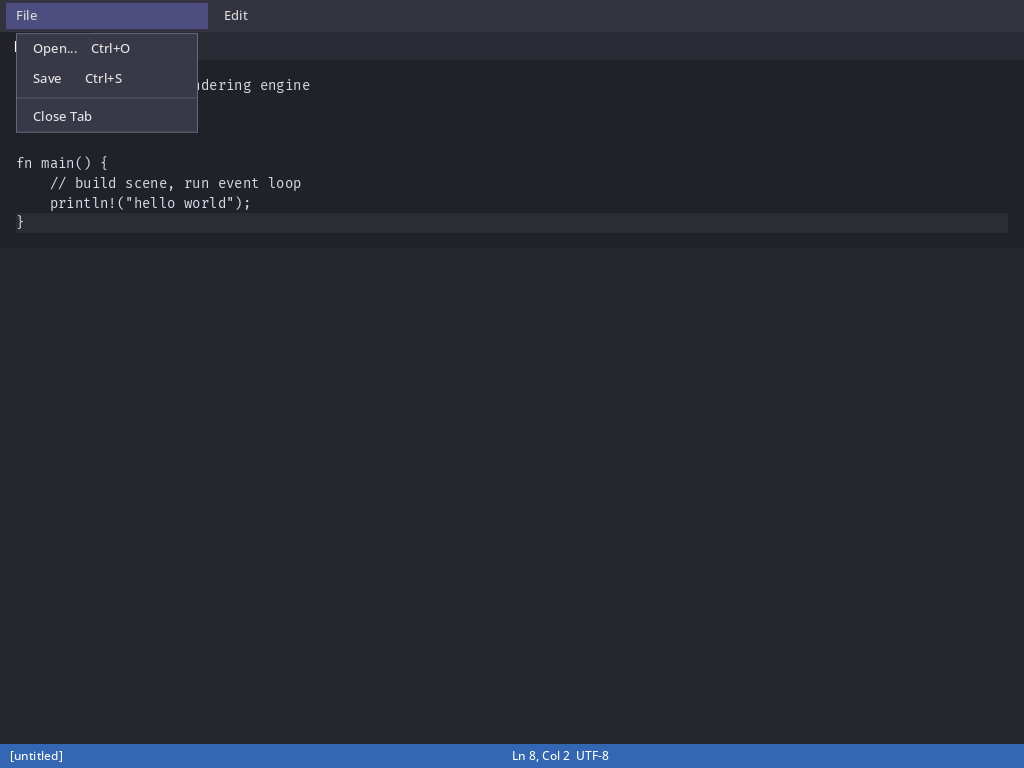
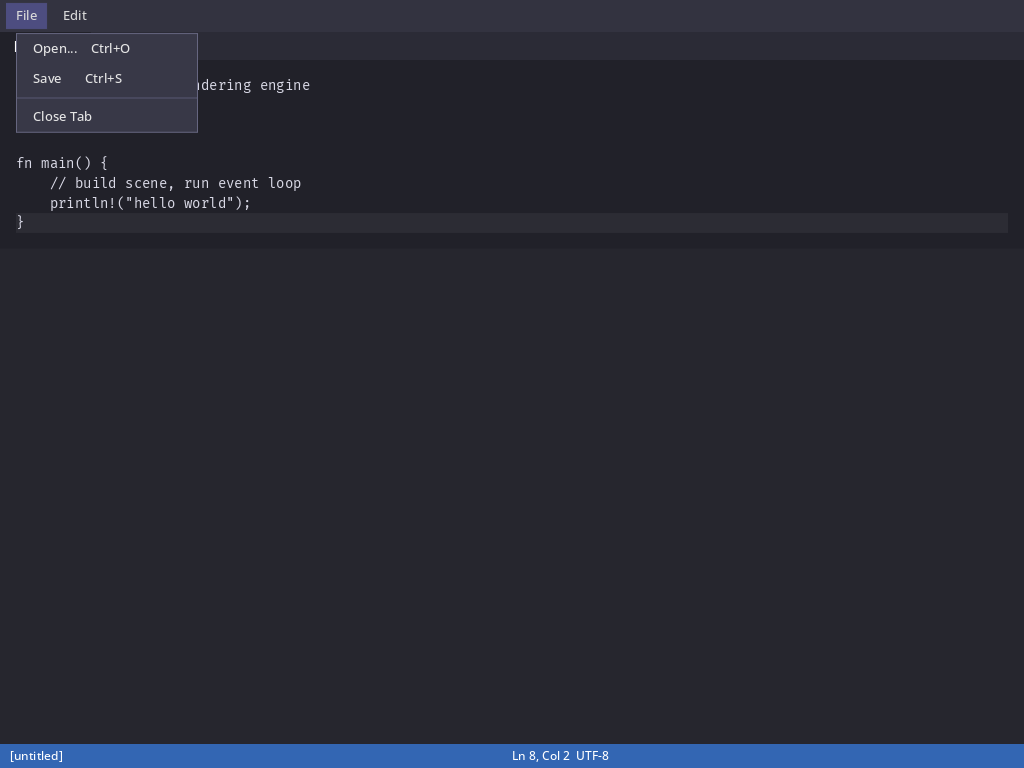
Fix shrink-wrap width incorrectly including absolute children
Absolute children were being laid out (filling their placeholder slots)
before the shrink-wrap width calculation, so inline-block elements like
menu headers grew to accommodate their dropdown's min-width. Filter them
out the same way height calculation already does.

Changed region(s): [[0.0312, 0.0, 0.25, 0.0625]]

diff --git a/src/render/layout.rs b/src/render/layout.rs
@@ -173,11 +173,11 @@ fn layout_element(node: &Node, constraints: Constraints, measurer: &mut dyn Text
     // Lay out absolutely positioned children — containing block is the full border-box of this element.
     layout_absolute_children(node, inner_w + chrome_x, inner_h + chrome_y, &mut children, measurer);
 
-    // For shrink-wrap elements, width comes from children extents.
+    // For shrink-wrap elements, width comes from in-flow children extents only.
     let inner_w = if shrink_wrap {
-        let children_w = children.iter().fold(0.0f32, |acc, cb| {
-            (cb.border_box.x + cb.border_box.w).max(acc)
-        });
+        let children_w = node.children().iter().zip(children.iter())
+            .filter(|(n, _)| n.style.position != Position::Absolute)
+            .fold(0.0f32, |acc, (_, cb)| (cb.border_box.x + cb.border_box.w).max(acc));
         clamp_size(children_w, s.min_width, s.max_width, constraints.available_w)
     } else {
         inner_w